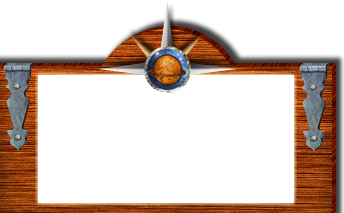
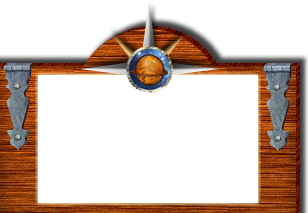
Implemented feature request: [ 1710618 ] Change of map orientation. The minimap has been made smaller (skin changed).
git-svn-id: https://svn.freecol.org/svnroot/freecol/freecol/trunk@2217 04c0ca24-bb37-0410-963f-fb4f4e597ea7

Changed region(s): [[0.0, 0.1127, 0.9935, 1.0]]

diff --git a/src/net/sf/freecol/client/gui/panel/MiniMap.java b/src/net/sf/freecol/client/gui/panel/MiniMap.java
@@ -15,6 +15,7 @@ import javax.swing.UIManager;
 import javax.swing.border.BevelBorder;
 import javax.swing.event.MouseInputListener;
 
+import net.sf.freecol.client.ClientOptions;
 import net.sf.freecol.client.FreeColClient;
 import net.sf.freecol.client.gui.action.MiniMapZoomInAction;
 import net.sf.freecol.client.gui.action.MiniMapZoomOutAction;
@@ -39,7 +40,7 @@ public final class MiniMap extends JPanel implements MouseInputListener {
     public static final int MINIMAP_ZOOMOUT = 13;
     public static final int MINIMAP_ZOOMIN = 14;
     
-    private static final int MAP_WIDTH = 256;
+    private static final int MAP_WIDTH = 220;
     private static final int MAP_HEIGHT = 128;
 
     private int mapX;
@@ -127,7 +128,7 @@ public final class MiniMap extends JPanel implements MouseInputListener {
 
         // TODO-LATER: The values below should be specified by a skin-configuration-file:
         miniMapZoomInButton.setLocation(4, 174);
-        miniMapZoomOutButton.setLocation(300, 174);
+        miniMapZoomOutButton.setLocation(264, 174);
 
         add(miniMapZoomInButton);
         add(miniMapZoomOutButton);        
@@ -277,13 +278,13 @@ public final class MiniMap extends JPanel implements MouseInputListener {
 
         if (xOffset < 0) {
             xOffset = 0;
-        } else if (xOffset + xSize > map.getWidth()) {
-            xOffset = map.getWidth() - xSize;
+        } else if (xOffset + xSize + 1 > map.getWidth()) {
+            xOffset = map.getWidth() - xSize - 1;
         }
         if (yOffset < 0) {
             yOffset = 0;
-        } else if (yOffset + ySize > map.getHeight()) {
-            yOffset = map.getHeight() - ySize;
+        } else if (yOffset + ySize + 1> map.getHeight()) {
+            yOffset = map.getHeight() - ySize - 1;
         }
 
 

diff --git a/src/net/sf/freecol/server/generator/MapGeneratorOptions.java b/src/net/sf/freecol/server/generator/MapGeneratorOptions.java
@@ -270,16 +270,15 @@ public class MapGeneratorOptions extends OptionMap {
         final int size = getInteger(MAP_SIZE);
         switch (size) {
         case MAP_SIZE_SMALL:
-            return 30;
+            return 28;
         case MAP_SIZE_MEDIUM:
-            return 45;
+            return 28;
         case MAP_SIZE_LARGE:
-            return 60;
+            return 37;
         case MAP_SIZE_VERY_LARGE:
-            return 90;
+            return 46;
         case MAP_SIZE_HUGE:
-            return 120;
-            //return 240;
+            return 55;
         default:
             throw new IllegalStateException("Invalid map-size: " + size + ".");
         }
@@ -293,16 +292,15 @@ public class MapGeneratorOptions extends OptionMap {
         final int size = getInteger(MAP_SIZE);
         switch (size) {
         case MAP_SIZE_SMALL:
-            return 64;
+            return 65;
         case MAP_SIZE_MEDIUM:
-            return 96;
-        case MAP_SIZE_LARGE:
             return 128;
-        case MAP_SIZE_VERY_LARGE:
+        case MAP_SIZE_LARGE:
             return 192;
+        case MAP_SIZE_VERY_LARGE:
+            return 257;
         case MAP_SIZE_HUGE:
-            return 256;
-            //return 512;
+            return 321;
         default:
             throw new IllegalStateException("Invalid map-size: " + size + ".");
         }

diff --git a/test/src/net/sf/freecol/server/generator/MapGeneratorTest.java b/test/src/net/sf/freecol/server/generator/MapGeneratorTest.java
@@ -63,8 +63,8 @@ public class MapGeneratorTest extends TestCase {
 		// Check that the map is created at all
 		assertNotNull(g.getMap());
 
-		assertEquals(30, g.getMap().getWidth());
-		assertEquals(64, g.getMap().getHeight());
+		assertEquals(gen.getMapGeneratorOptions().getWidth(), g.getMap().getWidth());
+		assertEquals(gen.getMapGeneratorOptions().getHeight(), g.getMap().getHeight());
 
 	}
 	
